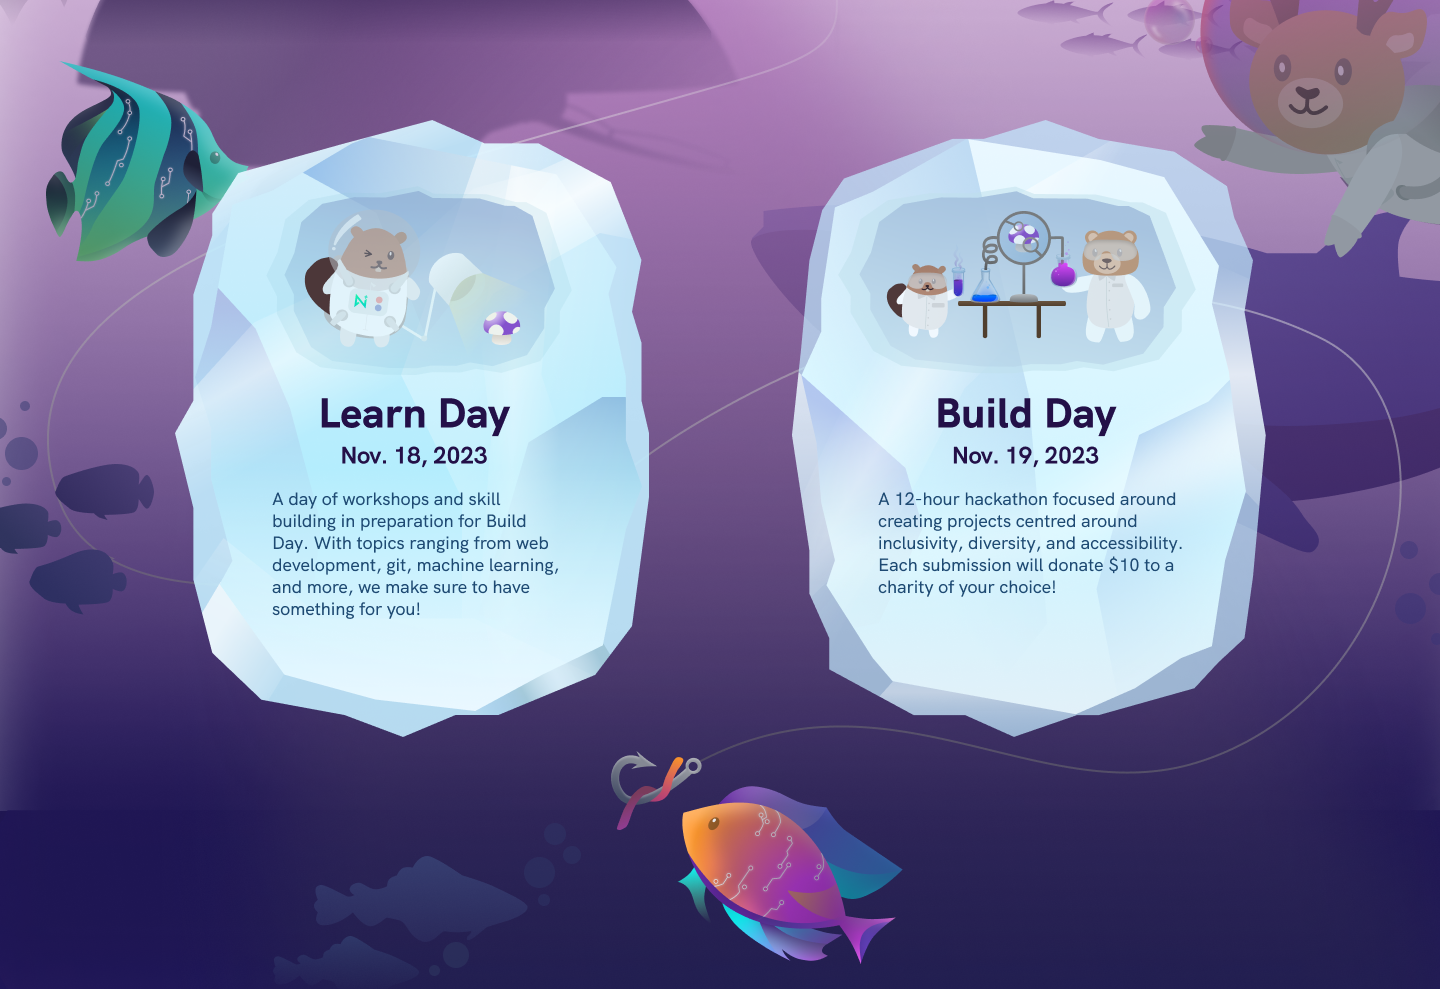
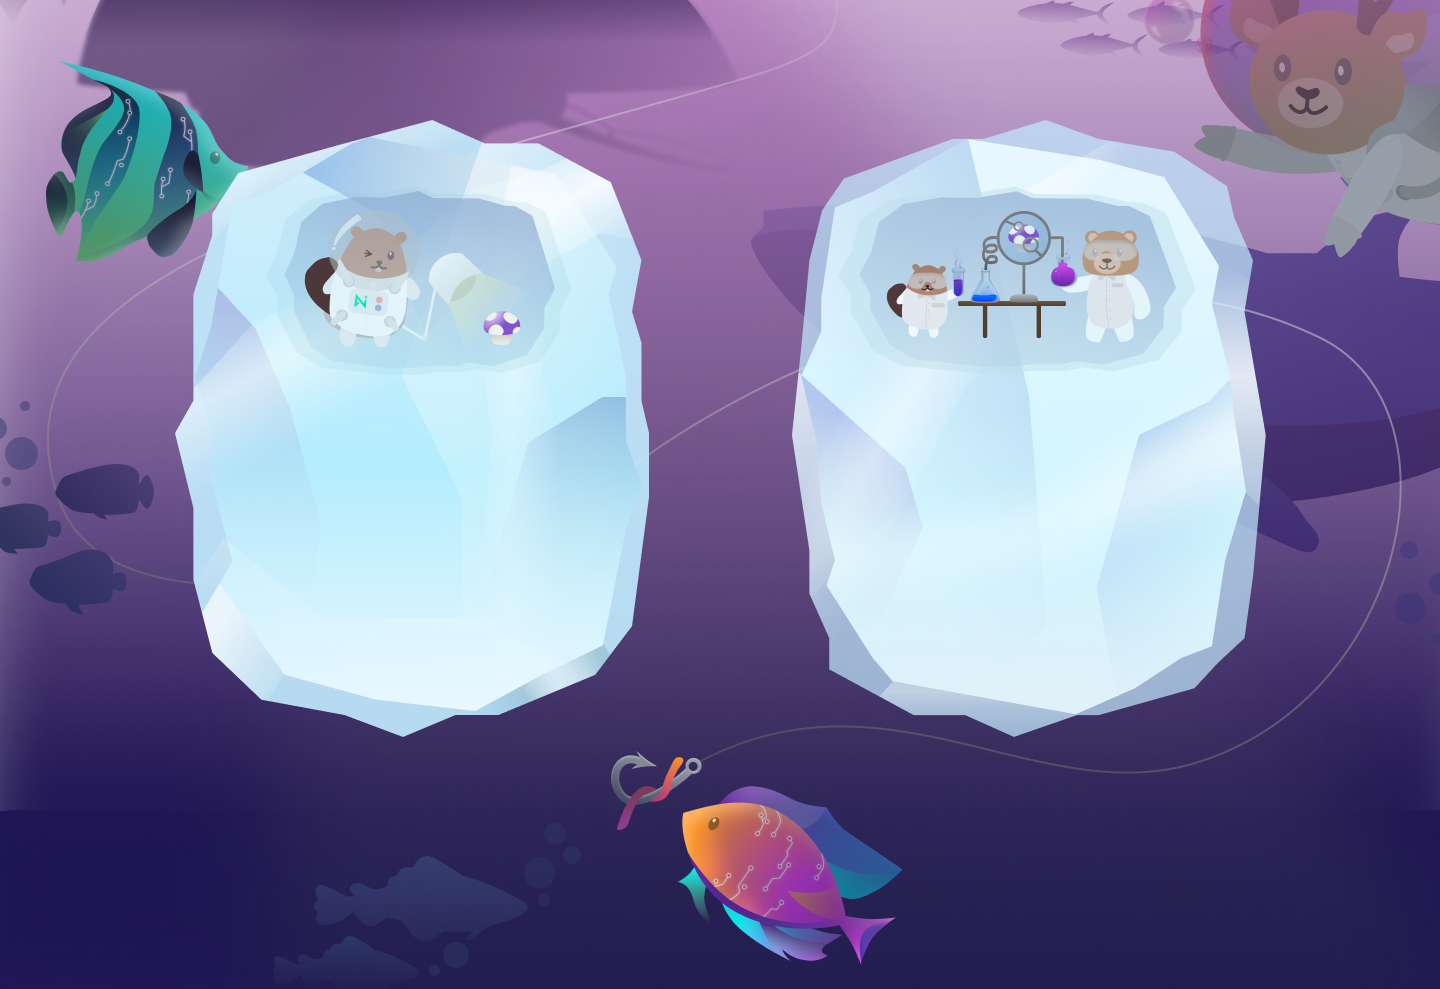
convert event text to html

Changed region(s): [[0.1875, 0.3943, 0.375, 0.637], [0.5938, 0.3943, 0.8125, 0.6067]]

diff --git a/src/sections/Learn.jsx b/src/sections/Learn.jsx
@@ -167,6 +167,75 @@ const Bubbles = styled.div`
   }
 `
 
+const StyledText = styled.div`
+  display: flex;
+  flex-direction: row;
+  justify-content: center;
+  gap: 20vw;
+  margin-top: 24vw;
+
+  ${(p) => p.theme.mediaQueries.mobile} {
+    flex-direction: column-reverse;
+    align-items: center;
+    margin-top: 55vw;
+    gap: 80vw;
+  }
+`
+
+const Event = styled.div`
+  display: flex;
+  flex-direction: column;
+  width: 22.5vw;
+
+  ${(p) => p.theme.mediaQueries.mobile} {
+    width: 50vw;
+  }
+`
+
+const EventTitle = styled.div`
+  color: var(--Space-500, #231048);
+  text-align: center;
+  font-size: 2.5vw;
+  font-style: normal;
+  font-weight: 800;
+  letter-spacing: 0.38px;
+
+  ${(p) => p.theme.mediaQueries.mobile} {
+    font-size: 6vw;
+  }
+`
+
+const Date = styled.div`
+  color: var(--Space-500, #231048);
+  text-align: center;
+  font-size: 1.35vw;
+  font-style: normal;
+  font-weight: 700;
+  letter-spacing: -0.45px;
+  margin-top: 4px;
+  margin-bottom: 16px;
+
+  ${(p) => p.theme.mediaQueries.mobile} {
+    font-size: 4vw;
+    margin-top: 0;
+    margin-bottom: 12px;
+  }
+`
+
+const Description = styled.div`
+  color: #1E4A73;
+  font-size: 1.2vw;
+  font-style: normal;
+  font-weight: 500;
+  line-height: 1.5vw;
+  letter-spacing: -0.1px;
+
+  ${(p) => p.theme.mediaQueries.mobile} {
+    font-size: 3vw;
+    line-height: 3.5vw;
+  }
+`
+
 const Jellyfish = styled.div`
 background: url('assets/background/learn/jellyfish.png') no-repeat center;
 width: 100vw;
@@ -211,6 +280,30 @@ const Learn = () => {
       <StyledTitle>
         Our Events
       </StyledTitle>
+      <StyledText>
+        <Event>
+          <EventTitle>
+            Learn Day
+          </EventTitle>
+          <Date>
+            Nov. 18, 2023
+          </Date>
+          <Description>
+            A day of workshops and skill building in preparation for Build Day. With topics ranging from web development, git, machine learning, and more, we make sure to have something for you!
+          </Description>
+        </Event>
+        <Event>
+          <EventTitle>
+            Build Day
+          </EventTitle>
+          <Date>
+            Nov. 19, 2023
+          </Date>
+          <Description>
+            A 12-hour hackathon focused around creating projects centered around inclusivity, diversity and accessibility. Each submission will donate $10 to a charity of your choice!
+          </Description>
+        </Event>
+      </StyledText>
       <Jellyfish ref={jellyfishParallax.ref}></Jellyfish>
       <Turtle ref={turtleParallax.ref}></Turtle>
       <Bubbles></Bubbles>
